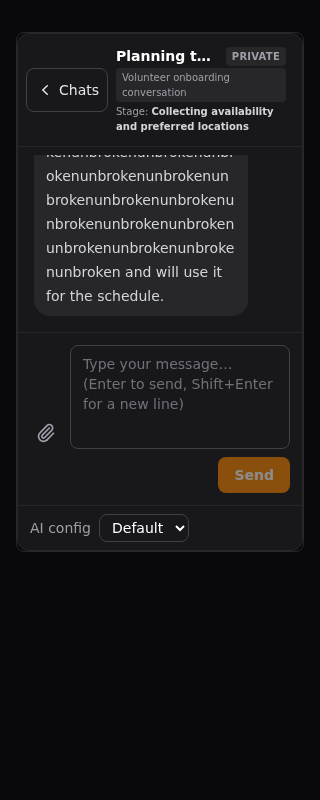
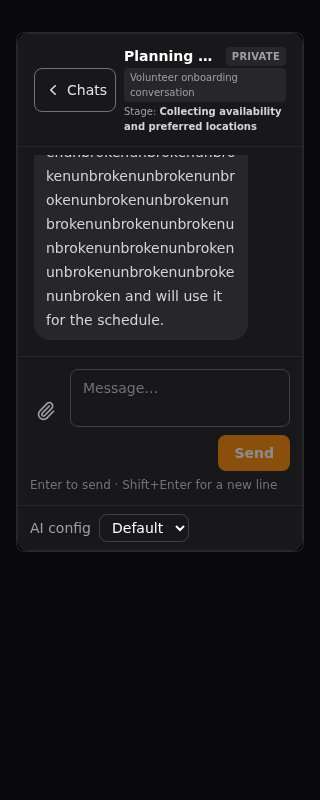
fix: size the composer by its content, not the hint sentence; draw Back at 3:1 (Refs #2094)
The blind review of #2171 (Gil, at e2156e98) asked for three things the
first cut got wrong: the 104px floor was sized to one hardcoded English
placeholder (any locale or copy edit clips again), its cost on small
phones was unverified (at 320x568 the transcript was a 32px slit), and
the border-visibility assertion could pass on a zero-alpha border in
space/oklch syntax.

Treat the long hint as the problem instead of the box: the placeholder
becomes the localized "Message…", the Enter/Shift+Enter hint moves to
helper text under the composer — hidden on touch pointers and with no
chat open — and the box returns to the natural rows="2" shape at every
width (main's exact footprint, so the transcript keeps the space the
floor was taking). Back's outline steps one ramp stronger (zinc-500 both
themes), the negative offsets drop now the box is drawn, and the layout
script now composites the border over the chip surface in a 1x1 canvas
and asserts WCAG 1.4.11 >= 3:1, which no computed-color syntax can slip;
a chevron-glyph check joins the SVG-box check. Pins: composer rest box
<= 64px on both sides of the @2xl switch (947/948 straddle it), the
helper line shown on fine pointers and hidden on touch, selectors scoped
to #panel main textarea, and the measure wrapped in try/finally.

The pre-existing zero-transcript at 320x568 (header meta + AI row vs a
288px panel, #2088's layout) is flagged as a follow-up, not absorbed.
[…]

diff --git a/src/lib/components/AgentChat.svelte b/src/lib/components/AgentChat.svelte
@@ -1041,15 +1041,15 @@
         <!-- portal#2088: phone-only view navigation back to the list. Neutral
              chrome (never the warm accent); it changes no chat.
              portal#2094: reads as a control at rest — a drawn zinc outline
-             and a 20px chevron, one ramp for both themes
-             (hrn:node:hadronmemory.com:specs:cor:brd:010:01: Back is
-             navigation; the warm accent is never the primary
-             navigation color). -->
+             strong enough to see against the header surface (>= 3:1 both
+             themes, one ramp step for both), a 20px chevron and the label,
+             inside the 44px target. Back is navigation; the warm accent is
+             never the primary navigation color. -->
         <button
           type="button"
           onclick={backToChats}
           aria-label={t('agent-chat.back.aria', 'Back to chats')}
-          class="-my-2 -ml-2 inline-flex min-h-11 min-w-11 shrink-0 items-center justify-center gap-1 rounded-lg border border-zinc-300 bg-white px-2 text-sm font-medium text-zinc-700 hover:bg-zinc-100 focus-visible:outline-2 focus-visible:outline-offset-2 focus-visible:outline-indigo-500 @2xl:hidden dark:border-zinc-700 dark:bg-zinc-900 dark:text-zinc-200 dark:hover:bg-zinc-800"
+          class="inline-flex min-h-11 min-w-11 shrink-0 items-center justify-center gap-1 rounded-lg border border-zinc-500 bg-white px-2 text-sm font-medium text-zinc-700 hover:bg-zinc-100 focus-visible:outline-2 focus-visible:outline-offset-2 focus-visible:outline-indigo-500 @2xl:hidden dark:border-zinc-500 dark:bg-zinc-900 dark:text-zinc-200 dark:hover:bg-zinc-800"
         >
           <svg aria-hidden="true" viewBox="0 0 20 20" fill="currentColor" class="h-5 w-5">
             <path fill-rule="evenodd" d="M12.79 5.23a.75.75 0 0 1-.02 1.06L8.832 10l3.938 3.71a.75.75 0 1 1-1.04 1.08l-4.5-4.25a.75.75 0 0 1 0-1.08l4.5-4.25a.75.75 0 0 1 1.06.02Z" clip-rule="evenodd" />
@@ -1225,11 +1225,10 @@
         <!-- portal#2088: below `@2xl` (panel width) the textarea keeps at least 200px and Send
              wraps under it when the row is too narrow (DOM and Tab order
              unchanged); from `@2xl` up, one row as before.
-             portal#2094: while one pane shows, the composer's minimum is tall
-             enough for the placeholder's four wrapped lines at its narrowest
-             (210px at a 390 viewport — Send still fits beside it there, so
-             the box is squeezed; rows="2" alone left the hint clipped
-             mid-sentence); the two-pane side keeps its own 42px floor. -->
+             portal#2094: the placeholder stays short (one word) so the
+             natural rows="2" box shows it whole at every width and locale;
+             no height is sized around a sentence. The Enter/Shift+Enter hint
+             lives in the helper line below, shown for fine pointers only. -->
         <div class="flex flex-wrap items-end gap-2 @2xl:flex-nowrap">
           {#if uploadMemoryId}
             <AssetUploadButton
@@ -1241,10 +1240,12 @@
           <textarea
             bind:value={input}
             onkeydown={onInputKeydown}
-            placeholder={activeChatId ? 'Type your message… (Enter to send, Shift+Enter for a new line)' : 'Start a chat first'}
+            placeholder={activeChatId
+              ? t('agent-chat.composer.placeholder', 'Message…')
+              : t('agent-chat.composer.placeholder-disabled', 'Start a chat first')}
             rows="2"
             disabled={!activeChatId || sending}
-            class="min-h-[104px] w-full min-w-[12.5rem] flex-1 resize-none rounded-lg @2xl:min-h-[42px] @2xl:min-w-0 border border-zinc-300 bg-white px-3 py-2 text-sm text-zinc-900 placeholder-zinc-400 focus:border-indigo-500 focus:outline-none disabled:opacity-50 dark:border-zinc-700 dark:bg-zinc-900 dark:text-white dark:placeholder-zinc-500"
+            class="min-h-[42px] w-full min-w-[12.5rem] flex-1 resize-none rounded-lg @2xl:min-w-0 border border-zinc-300 bg-white px-3 py-2 text-sm text-zinc-900 placeholder-zinc-400 focus:border-indigo-500 focus:outline-none disabled:opacity-50 dark:border-zinc-700 dark:bg-zinc-900 dark:text-white dark:placeholder-zinc-500"
           ></textarea>
           <button
             type="button"
@@ -1256,6 +1257,20 @@
             Send
           </button>
         </div>
+        <!-- portal#2094/#2171: the keyboard hint the placeholder used to
+             carry. Helper text, not placeholder text, so the composer box is
+             never sized around a sentence; hidden on touch pointers, where
+             an Enter-to-send hint rarely applies and every pixel of the
+             composer column is scarce, and hidden with no chat open, where
+             there is nothing to send. -->
+        {#if activeChatId}
+          <p
+            data-testid="composer-hint"
+            class="pointer-coarse:hidden mt-1.5 text-xs text-zinc-400 dark:text-zinc-500"
+          >
+            {t('agent-chat.composer.hint', 'Enter to send · Shift+Enter for a new line')}
+          </p>
+        {/if}
       </div>
     {/if}
     {#if hasAiChoices}

diff --git a/docs/proofs/app-chat-phone-2094/README.md b/docs/proofs/app-chat-phone-2094/README.md
@@ -6,19 +6,29 @@ compiled `app.css` in headless Chromium, inside the app shell of
 `src/lib/test/fixtures/agent-chat-phone-harness.ts`. No server, provider,
 signed-in route or production call.
 
-Regenerate: `AGENT_CHAT_SHOTS=<dir> pnpm test:agent-chat-phone-layout` (the
-`baseline-main-*` shots come from running that on `origin/main`).
-
-A subset of what the regenerate command writes:
+Regenerate: `AGENT_CHAT_SHOTS=<dir> pnpm test:agent-chat-phone-layout`. The
+command writes `-list`, `-conversation` and `-refusal` shots for every width ×
+theme leg (320–1440, light and dark; a phone leg's `-conversation` shot is the
+deep-link state, captured last on its page). Only the subset below is
+committed; the `baseline-main-*` shots come from running the same command on
+`origin/main`.
 
 | File | What it shows |
 |---|---|
-| `baseline-main-390-light-conversation.png` | main before the fix: Back a bare text link (16px chevron, no border), placeholder hint clipped mid-sentence in the 42px textarea |
-| `390-{light,dark}-conversation.png` | Back in a neutral outlined chip (zinc-300/zinc-700, 20px chevron, 44px target); composer floor 104px so the four-line placeholder hint reads whole |
-| `320-{light,dark}-conversation.png` | 320px: same control, placeholder whole — here Send wraps under a 220px textarea, so the placeholder wraps differently than at 390 |
+| `baseline-main-390-light-conversation.png` | main before the fix: Back a bare text link (chevron + "Chats", no border); the long placeholder hint clipped mid-sentence in the two-row box |
+| `baseline-main-320-light-conversation.png` | main at 320: the same bare Back; the clipped hint wraps to a second line and still doesn't fit, with Send under the box |
+| `390-{light,dark}-conversation.png` | the fix: Back a drawn chip (zinc-500 outline on white/zinc-900 — ≥ 3:1 against its surface in both themes — 20px chevron + "Chats" label, 44px target); the placeholder the localized `Message…`; the Enter/Shift+Enter hint moved to helper text under the composer |
+| `320-{light,dark}-conversation.png` | 320px: the same chip and composer; the helper line fits, Send still wraps under the textarea (row layout unchanged) |
 | `390-light-list.png` | after Back: the list pane it returns to (unchanged by this fix) |
-| `948-light-conversation.png` | panel at `@2xl` and up: two panes, no Back, composer back at its 42px floor (`@2xl:min-h-[42px]` keeps the phone minimum from leaking) |
+| `948-light-conversation.png` | panel at `@2xl` and up: two panes, no Back, composer at the same natural two-row box (one floor everywhere — nothing leaks across the pane switch) |
+
+The shots run with a desktop pointer, so the helper line shows in them; on
+touch pointers it is hidden (`pointer-coarse:hidden`), pinned by the same
+script.
 
 Limits: component-fixture captures, not the signed-in App page; independent QA
 owns the route matrix (320/390, light and dark), and the UX seat owns the
-"Back visibly a control" confirmation.
+"Back visibly a control" confirmation. The transcript squeeze on 320×568
+viewports (header + AI row vs a 288px panel) predates this fix — #2088's
+layout owns it; on touch pointers the composer returns to main's exact
+footprint.
